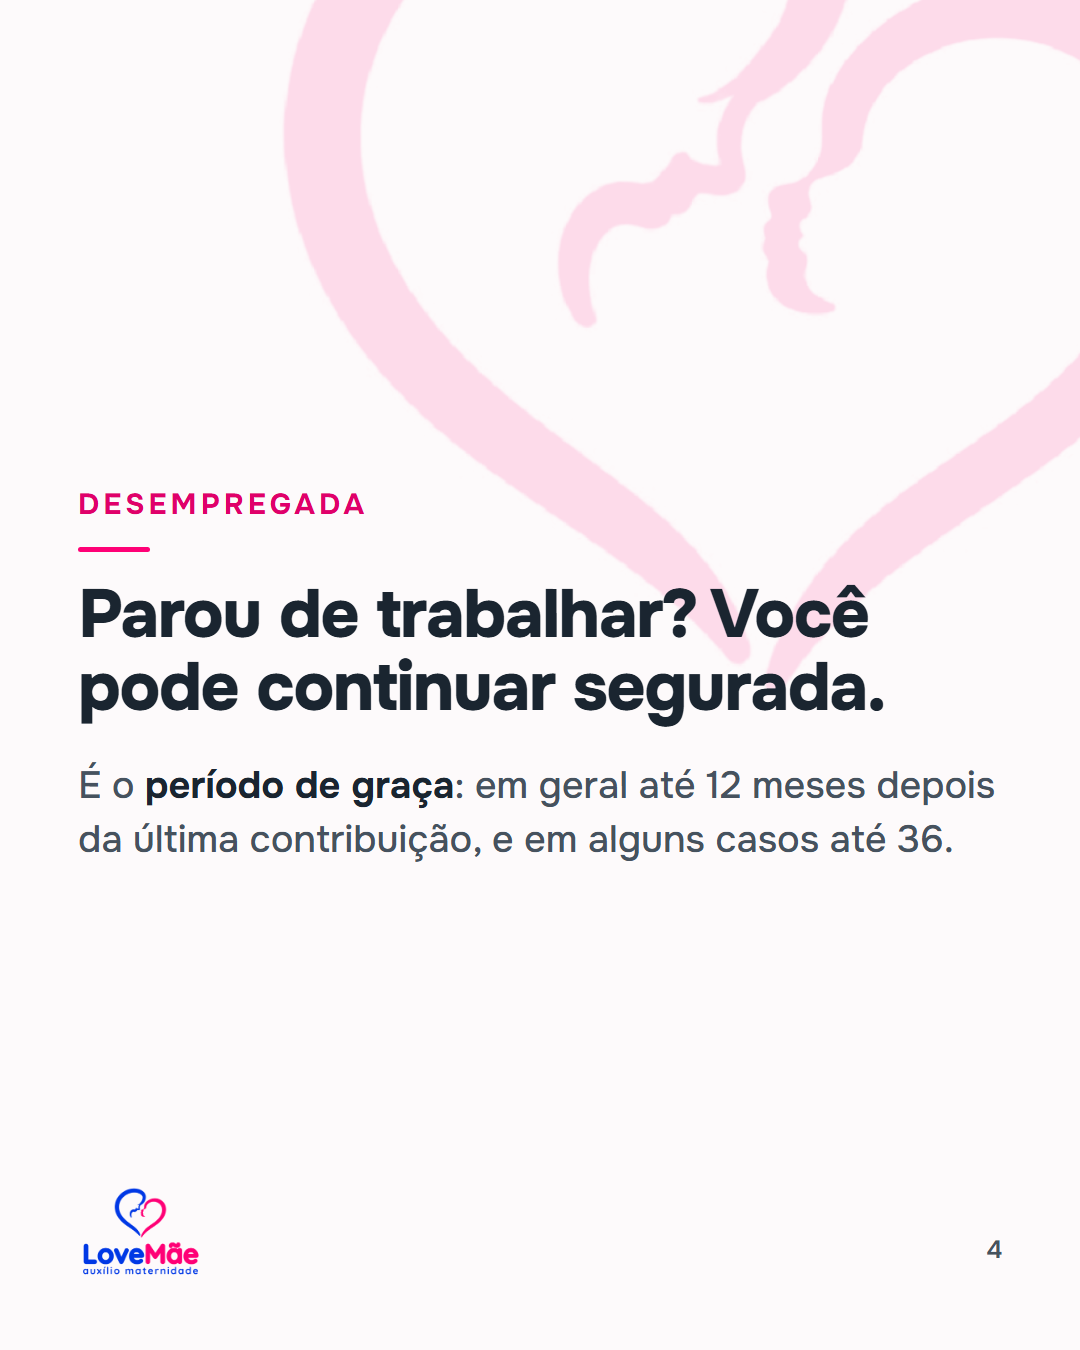
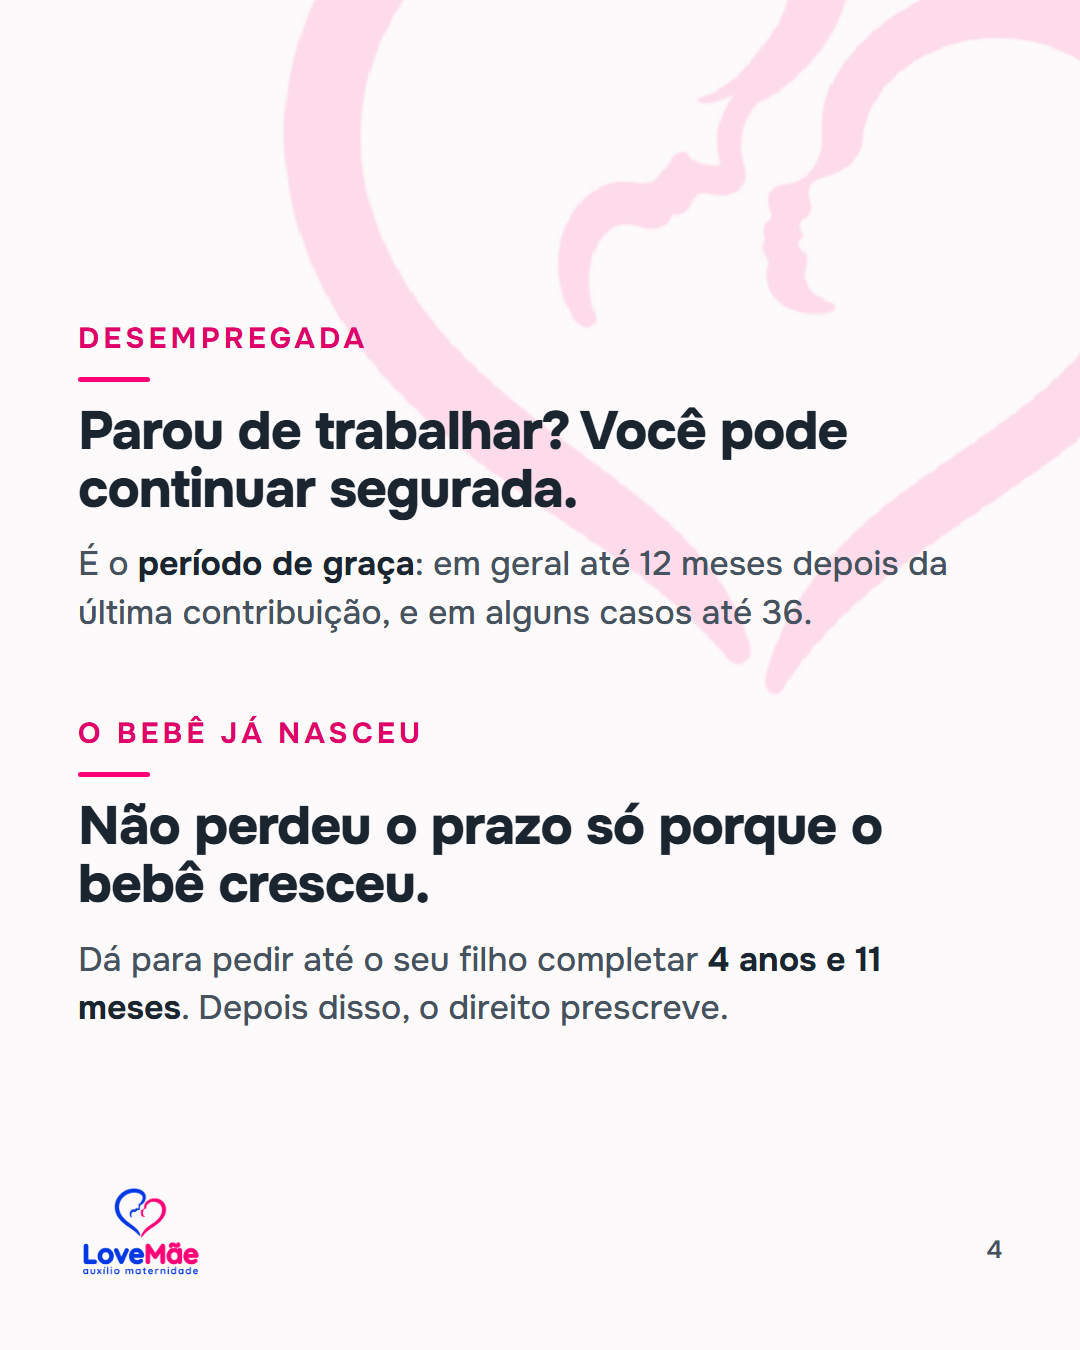
carrossel 2: desempregada + prazo no mesmo slide e fio removido (6 → 5 slides)

Changed region(s): [[0.0611, 0.2178, 0.9167, 0.7778]]

diff --git a/marketing/conteudo/carrossel-quem-tem-direito-2026-09-17/legenda.md b/marketing/conteudo/carrossel-quem-tem-direito-2026-09-17/legenda.md
@@ -1,7 +1,7 @@
 # Carrossel 2 da trilogia — "Será que eu tenho direito?"
 
 Produzido em 17/09/2026. Post **fixado** no topo do perfil (o do meio).
-6 slides, 1080×1350. Capa rosa (decisão de 17/09/2026).
+5 slides, 1080×1350. Capa rosa (decisão de 17/09/2026).
 
 ⚠ **Antes de publicar:** o time de operação precisa conferir as regras citadas —
 carência de 10 meses para MEI/autônoma, segurada especial rural, período de graça
@@ -49,9 +49,8 @@ https://www.lovemaeauxiliomaternidade.com.br/?utm_source=instagram&utm_medium=po
 | 1 (capa) | `slide-1.png` |
 | 2 — carteira assinada + MEI/autônoma | `slide-2.png` |
 | 3 — doméstica e rural | `slide-3.png` |
-| 4 — desempregada | `slide-4.png` |
-| 5 — prazo de 4 anos e 11 meses | `slide-5.png` |
-| 6 — CTA | `slide-6.png` |
+| 4 — desempregada + prazo de 4 anos e 11 meses | `slide-4.png` |
+| 5 — CTA | `slide-5.png` |
 
 Regerar: `NODE_PATH=../../../identidade/propostas/node_modules node gerar.cjs`
 Estilo compartilhado: `../estilo-carrossel.cjs`
